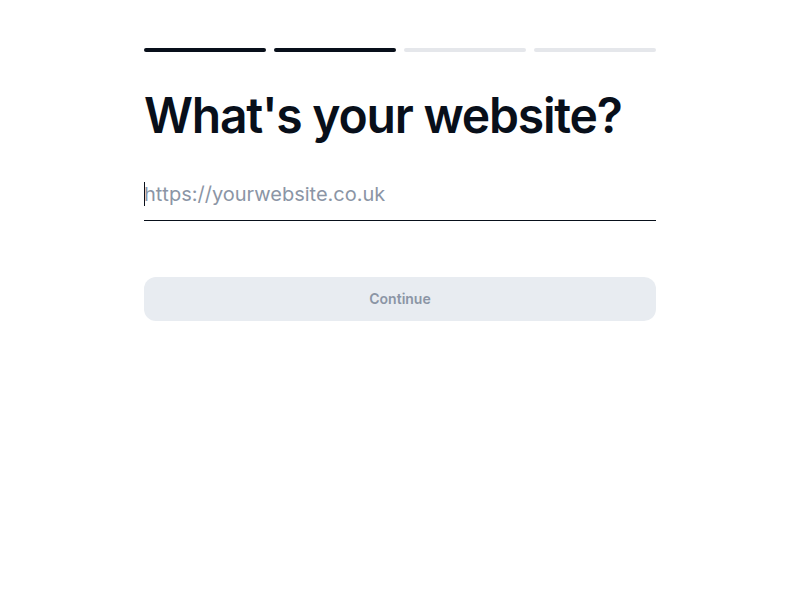
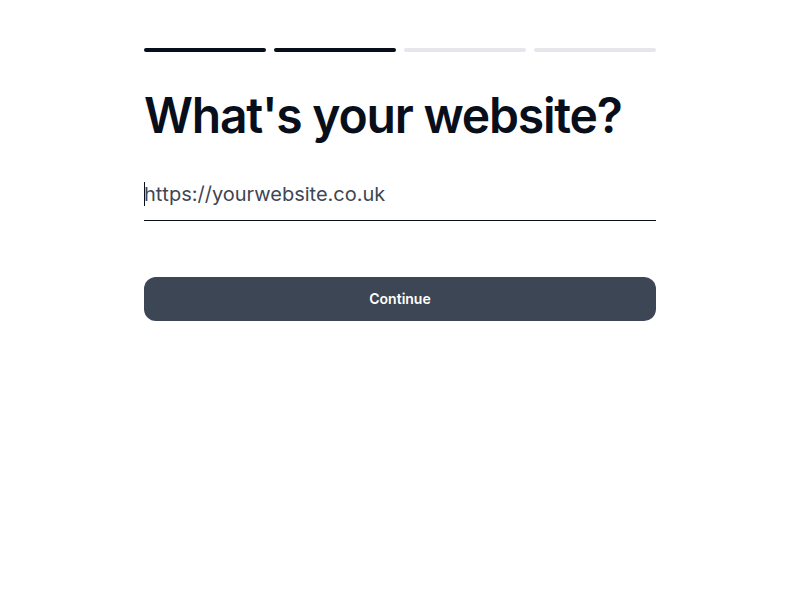
Strengthen black-and-white control contrast (no layout change).
Darken onboarding underline input and placeholders. Make primary disabled
state a solid dark grey with white text so controls remain identifiable.

Changed region(s): [[0.1562, 0.45, 0.8438, 0.54], [0.1875, 0.3, 0.5, 0.36]]

diff --git a/rankaura-web/components/onboarding/OnboardingFields.tsx b/rankaura-web/components/onboarding/OnboardingFields.tsx
@@ -37,7 +37,7 @@ export function OnboardingInput({
         autoComplete={autoComplete}
         placeholder={placeholder}
         onChange={(event) => onChange(event.target.value)}
-        className="w-full border-0 border-b border-[#e5e7eb] bg-transparent pb-3 text-xl text-[#080f1a] outline-none placeholder:text-[#8b95a5] focus:border-[#080f1a]"
+        className="w-full border-0 border-b border-[#080f1a] bg-transparent pb-3 text-xl text-[#080f1a] outline-none placeholder:text-[#3d4654] focus:border-[#080f1a]"
       />
     </div>
   );
@@ -72,7 +72,7 @@ export function OnboardingTextarea({
         placeholder={placeholder}
         rows={5}
         onChange={(event) => onChange(event.target.value)}
-        className="w-full resize-none rounded-2xl border border-[#e5e7eb] bg-white px-4 py-4 text-lg text-[#080f1a] outline-none placeholder:text-[#8b95a5] focus:border-[#080f1a]"
+        className="w-full resize-none rounded-2xl border border-[#080f1a] bg-white px-4 py-4 text-lg text-[#080f1a] outline-none placeholder:text-[#3d4654] focus:border-[#080f1a]"
       />
     </div>
   );

diff --git a/tests/rankaura-design-system.test.js b/tests/rankaura-design-system.test.js
@@ -34,6 +34,10 @@ const onboardingFields = fs.readFileSync(
   ),
   "utf8",
 );
+const globals = fs.readFileSync(
+  path.join(root, "rankaura-web", "app", "globals.css"),
+  "utf8",
+);
 
 assert.ok(askInput.includes("OnboardingInput"));
 assert.ok(askInput.includes("OnboardingPrimaryButton"));
@@ -48,8 +52,11 @@ assert.ok(!askCard.includes("accent"));
 assert.ok(askCard.includes("SurfaceCard"));
 assert.ok(askAnswer.includes("OnboardingPrimaryButton"));
 assert.ok(!askAnswer.includes("ButtonSecondary"));
-assert.ok(onboardingFields.includes("border-0 border-b border-[#e5e7eb]"));
+assert.ok(onboardingFields.includes("border-0 border-b border-[#080f1a]"));
+assert.ok(onboardingFields.includes("placeholder:text-[#3d4654]"));
 assert.ok(onboardingFields.includes("rounded-full"));
+assert.ok(globals.includes("--ra-disabled-bg: #3d4654"));
+assert.ok(globals.includes("--ra-disabled-fg: #ffffff"));
 assert.ok(mock.includes("Ask about your business"));
 assert.ok(mock.includes("Which recommendations need my approval?"));
 

diff --git a/rankaura-web/components/ask-rankaura/AskRankAuraSuggestions.tsx b/rankaura-web/components/ask-rankaura/AskRankAuraSuggestions.tsx
@@ -20,7 +20,7 @@ export function AskRankAuraSuggestions({
 
   return (
     <div className="mt-10">
-      <p className="text-sm font-medium text-[#8b95a5]">Suggested questions</p>
+      <p className="text-sm font-medium text-[#3d4654]">Suggested questions</p>
       <ul className="mt-4 space-y-3">
         {items.map((suggestion) => (
           <li key={suggestion.id}>
@@ -29,7 +29,7 @@ export function AskRankAuraSuggestions({
               onClick={() => onSelect(suggestion.text)}
               className="w-full text-left text-base font-normal text-[#080f1a] outline-none hover:underline"
             >
-              <span className="text-[#8b95a5]" aria-hidden="true">
+              <span className="text-[#080f1a]" aria-hidden="true">
                 →{" "}
               </span>
               {suggestion.text}

diff --git a/rankaura-web/app/globals.css b/rankaura-web/app/globals.css
@@ -41,9 +41,9 @@
   --ra-neutral: #3f4a5a;
   --ra-neutral-soft: #eef1f5;
 
-  /* Disabled — intentional, not unfinished */
-  --ra-disabled-bg: #e8ecf1;
-  --ra-disabled-fg: #8b95a5;
+  /* Disabled — still reads as a solid button (dark grey, not washed) */
+  --ra-disabled-bg: #3d4654;
+  --ra-disabled-fg: #ffffff;
 
   /* Radius */
   --ra-radius-sm: 8px;
